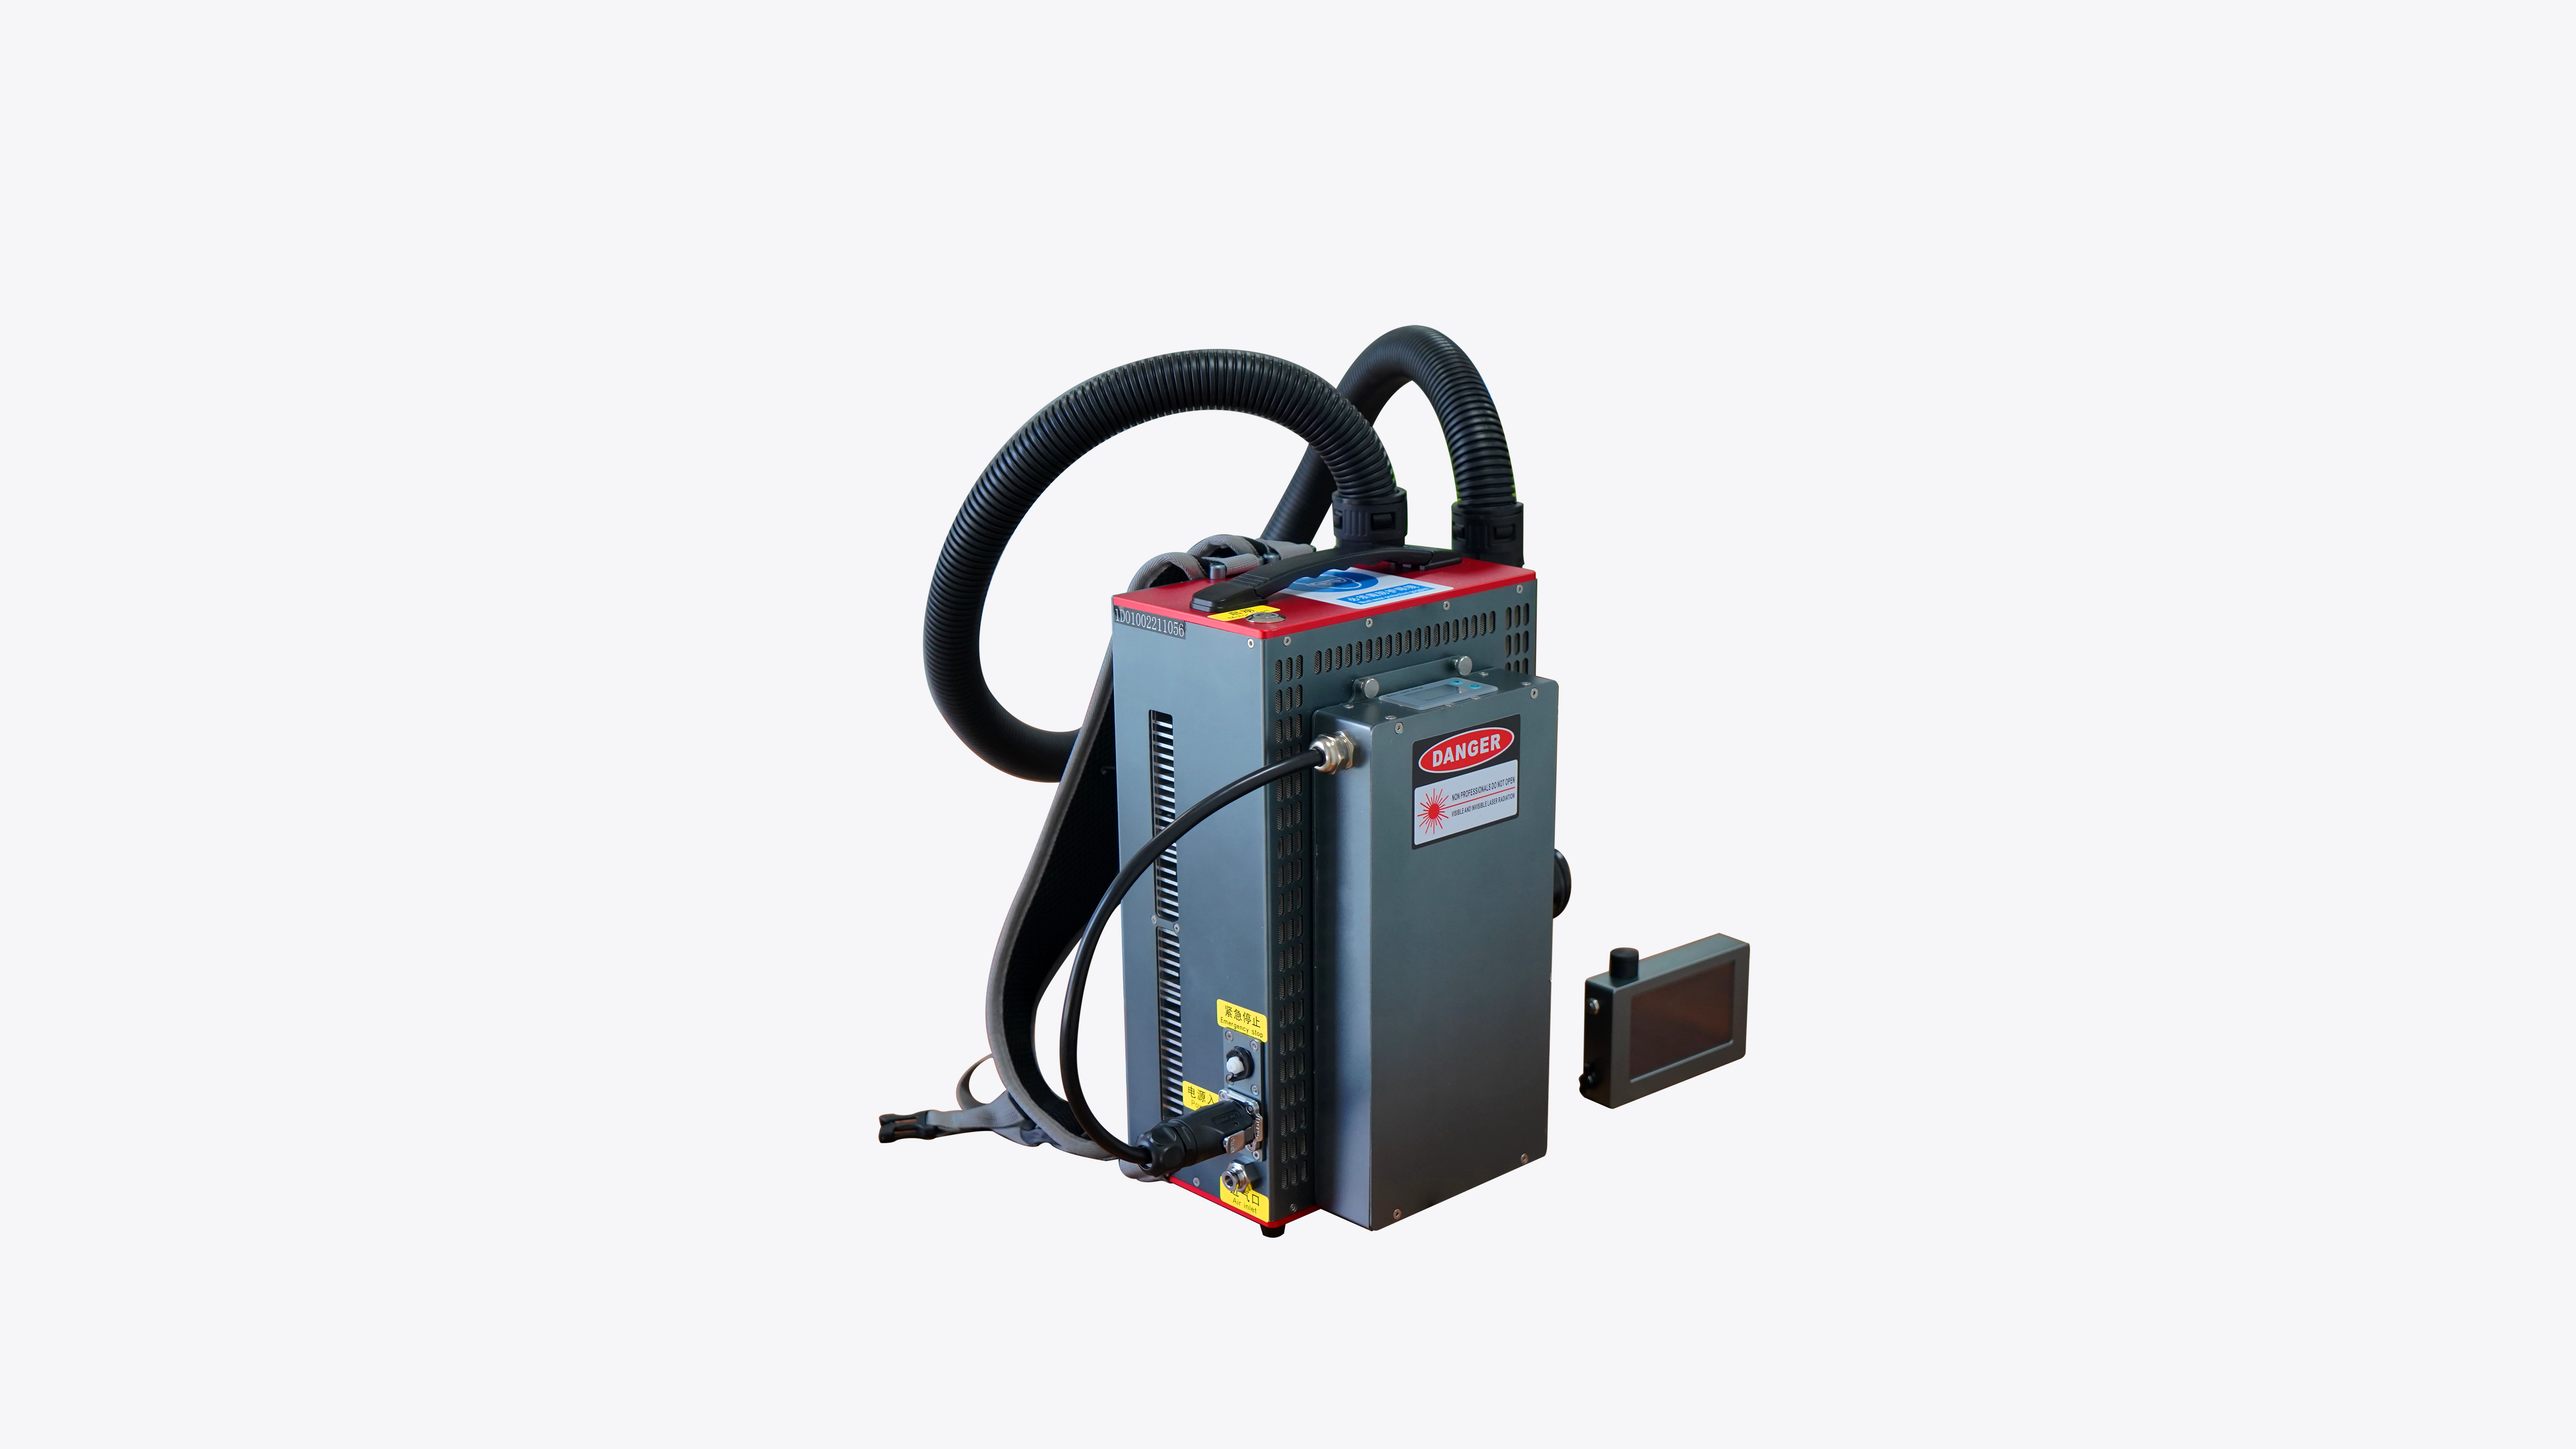
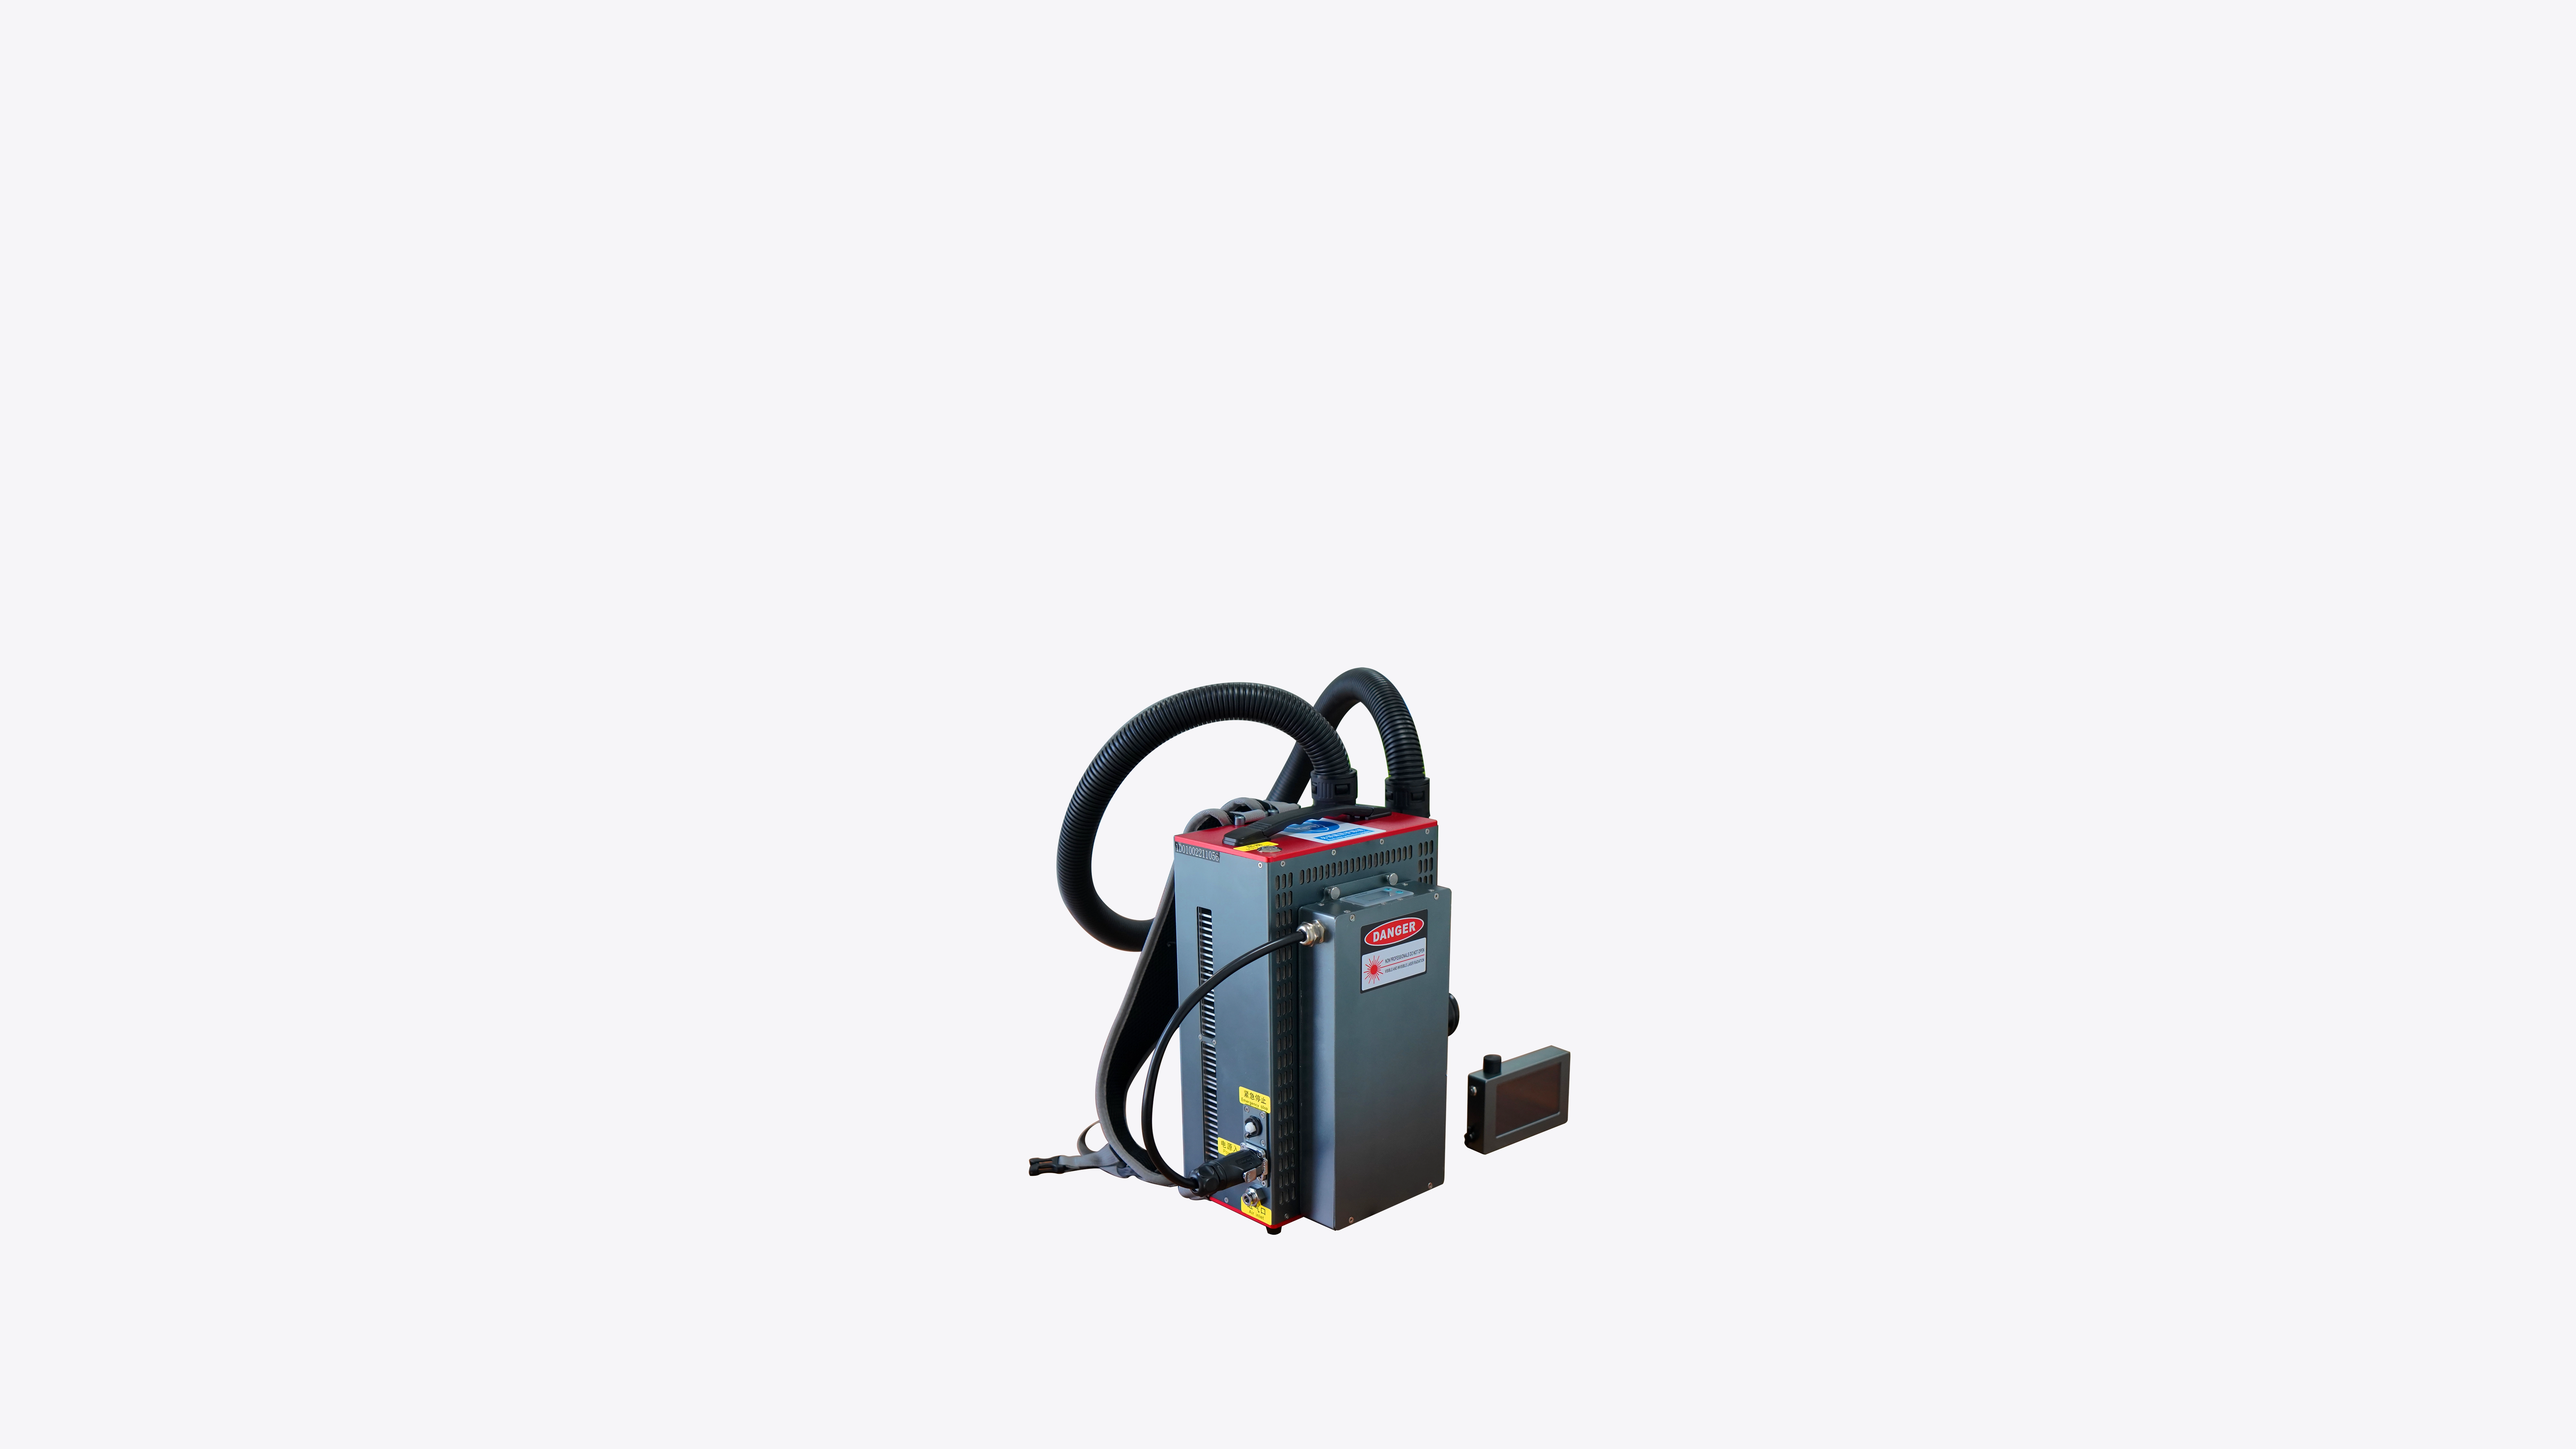
1

Changed region(s): [[0.3438, 0.2178, 0.6875, 0.8711]]

diff --git a/products/laser-cleaning/commercial/index.html b/products/laser-cleaning/commercial/index.html
@@ -6178,7 +6178,7 @@
         <div class="banner-mask"></div>
         <!-- 原轮播图片（承载lightOn/lightSpread动画） -->
         <img
-          src="../../../img/products/laser-welding/r-mobile/banner/senrytech-laser-welding-r-mobile-banner.webp"
+          src="../../../img/products/laser-cleaning/residential/senrytech-laser-cleaning-residential.webp"
           alt="Senrytech A系列激光切割机"
         />
         <!-- 原文字内容（承载contentFade动画） -->
